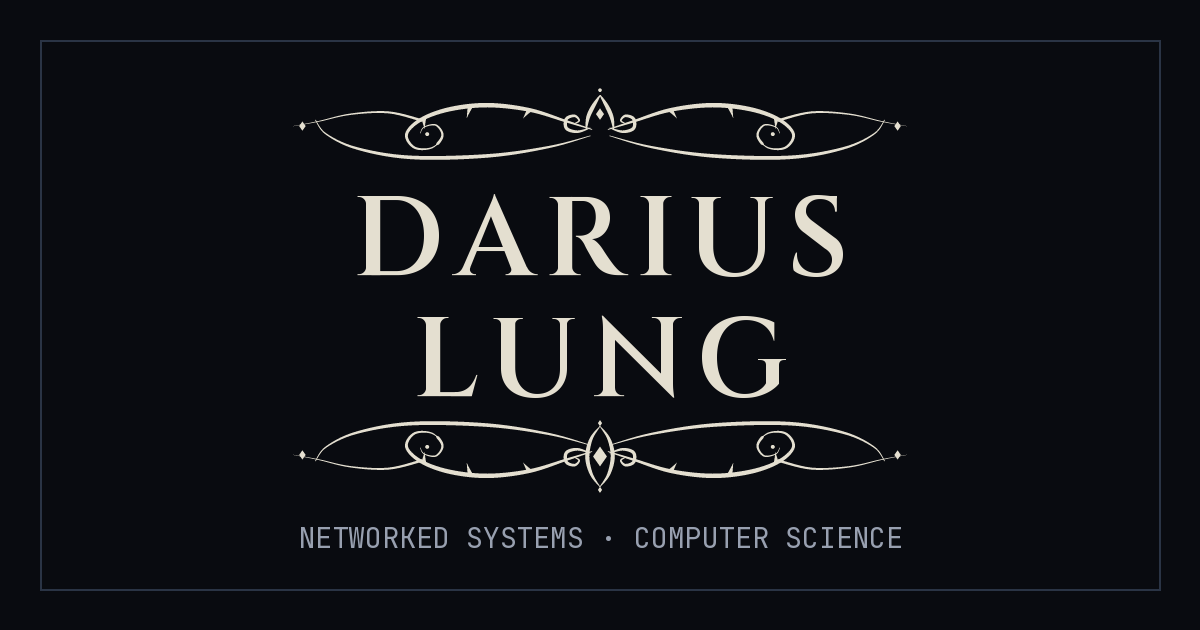
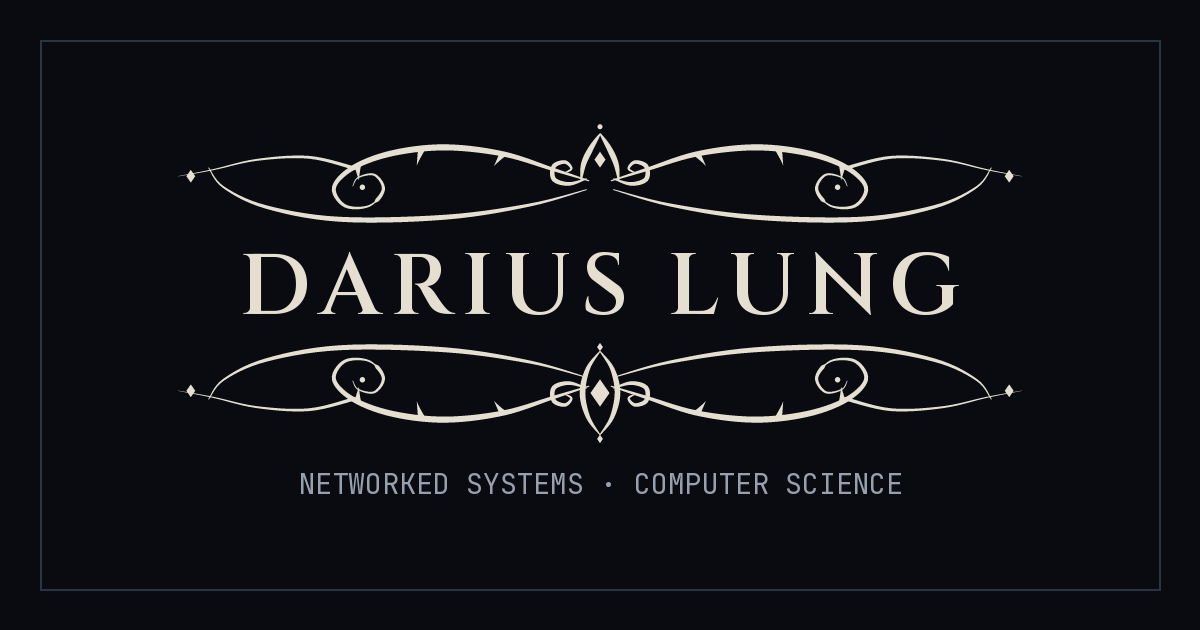
style: one-line name on wide screens and nav links in place of the brand
Keep the stacked name on phones and switch to one line from 640px up inside a wider filigree. Replace the header brand with the Home/Tools/CV links in Cinzel uppercase (toggle stays on the right), update the design plan, and redraw the share image with a one-line name under a wide filigree. Rebuild styles.css.

diff --git a/_includes/navbar.html b/_includes/navbar.html
@@ -1,16 +1,15 @@
 {% assign cv_file = site.static_files | where: "path", "/assets/cv.pdf" %}
 <nav class="border-b border-rule bg-paper" aria-label="Main">
     <div class="max-w-4xl mx-auto px-6 py-3 flex justify-between items-center gap-3">
-        <a class="font-display text-base font-semibold uppercase tracking-widest hover:text-signal-text" href="/">Darius Lung</a>
-
-        <div class="flex items-center gap-4 sm:gap-6 text-sm">
+        <div class="flex items-center gap-5 sm:gap-7 font-display text-sm font-semibold uppercase tracking-widest">
             <a href="/" class="py-1 border-b-2 hover:text-signal-text {% if page.url == '/' %}border-signal{% else %}border-transparent{% endif %}" {% if page.url == '/' %}aria-current="page"{% endif %}>Home</a>
             <a href="/tools" class="py-1 border-b-2 hover:text-signal-text {% if page.url contains '/tools' %}border-signal{% else %}border-transparent{% endif %}" {% if page.url contains '/tools' %}aria-current="page"{% endif %}>Tools</a>
             {% if cv_file.size > 0 %}
             <a href="/assets/cv.pdf" class="py-1 border-b-2 border-transparent hover:text-signal-text">CV</a>
             {% endif %}
+        </div>
 
-            <button id="theme-toggle" type="button" class="btn !p-2" aria-label="Toggle dark mode">
+        <button id="theme-toggle" type="button" class="btn !p-2" aria-label="Toggle dark mode">
                 <svg id="icon-sun" class="hidden w-5 h-5" viewBox="0 0 24 24" fill="currentColor" aria-hidden="true">
                   <path d="M12 2.25a.75.75 0 01.75.75v2.25a.75.75 0 01-1.5 0V3a.75.75 0 01.75-.75zM7.5 12a4.5 4.5 0 119 0 4.5 4.5 0 01-9 0zM18.894 6.166a.75.75 0 00-1.06-1.06l-1.591 1.59a.75.75 0 101.06 1.061l1.591-1.59zM21.75 12a.75.75 0 01-.75.75h-2.25a.75.75 0 010-1.5H21a.75.75 0 01.75.75zM17.834 18.894a.75.75 0 001.06-1.06l-1.59-1.591a.75.75 0 10-1.061 1.06l1.59 1.591zM12 18a.75.75 0 01.75.75V21a.75.75 0 01-1.5 0v-2.25A.75.75 0 0112 18zM7.758 17.303a.75.75 0 00-1.061-1.06l-1.591 1.59a.75.75 0 001.06 1.061l1.591-1.59zM6 12a.75.75 0 01-.75.75H3a.75.75 0 010-1.5h2.25A.75.75 0 016 12zM6.697 7.757a.75.75 0 001.06-1.06l-1.59-1.591a.75.75 0 00-1.061 1.06l1.59 1.591z" />
                 </svg>
@@ -18,7 +17,6 @@
                     <path d="M17.293 13.293A8 8 0 016.707 2.707a8.001 8.001 0 1010.586 10.586z"></path>
                 </svg>
             </button>
-        </div>
     </div>
 </nav>
 

diff --git a/index.html b/index.html
@@ -6,9 +6,9 @@ title: Home
 
 <!-- Title card: the name between two filigrees, centred -->
 <section class="flex flex-col items-center text-center mb-14">
-    <div class="w-full max-w-[26rem]">
+    <div class="w-full max-w-[26rem] sm:max-w-[36rem]">
         <div class="filigree" aria-hidden="true"></div>
-        <h1 class="mt-3 text-5xl sm:text-6xl font-semibold uppercase leading-tight tracking-wider">Darius <span class="block">Lung</span></h1>
+        <h1 class="mt-3 text-5xl sm:text-6xl font-semibold uppercase leading-tight tracking-wider">Darius <span class="block sm:inline">Lung</span></h1>
         <p class="label mt-4 sm:text-sm">Networked systems &middot; Computer science</p>
         <div class="filigree-bottom mt-4" aria-hidden="true"></div>
         <div class="flex flex-wrap justify-center gap-2 mt-6">

diff --git a/assets/css/styles.css b/assets/css/styles.css
@@ -1062,6 +1062,9 @@ video {
 .gap-4 {
   gap: 1rem;
 }
+.gap-5 {
+  gap: 1.25rem;
+}
 .gap-x-3 {
   -moz-column-gap: 0.75rem;
        column-gap: 0.75rem;
@@ -1423,8 +1426,16 @@ video {
     grid-column: span 3 / span 3;
   }
 
+  .sm\:inline {
+    display: inline;
+  }
+
   .sm\:w-24 {
     width: 6rem;
+  }
+
+  .sm\:max-w-\[36rem\] {
+    max-width: 36rem;
   }
 
   .sm\:grid-cols-\[1fr_1fr_auto\] {
@@ -1443,8 +1454,8 @@ video {
     justify-content: space-between;
   }
 
-  .sm\:gap-6 {
-    gap: 1.5rem;
+  .sm\:gap-7 {
+    gap: 1.75rem;
   }
 
   .sm\:p-5 {

diff --git a/docs/design-plan.md b/docs/design-plan.md
@@ -51,7 +51,7 @@ The favicon is the shard too: `favicon_shard()` (a bold pointed oval round a dia
 ### Typography
 
 - **Three families, self-hosted** as `woff2` in `assets/fonts/`, with `font-display: swap`; Inter and Cinzel are preloaded:
-  - **Cinzel** (variable, OFL): all `h1`–`h3` and the navbar name. Trajan-style capitals, chosen to echo the Hollow Knight logotype. Lowercase renders as small caps, so headings need no `tracking-tight` (it squeezes the capitals); use `tracking-wide`.
+  - **Cinzel** (variable, OFL): all `h1`–`h3` and the navbar links. Trajan-style capitals, chosen to echo the Hollow Knight logotype. Lowercase renders as small caps, so headings need no `tracking-tight` (it squeezes the capitals); use `tracking-wide`.
   - **Inter** (variable): body text and controls.
   - **JetBrains Mono** (400 only): labels, weights, complexity badges, small metadata.
 - Drop Space Grotesk. (Cinzel is the third family; the Hollow Knight direction justified the extra ~26 KB.)
@@ -110,7 +110,7 @@ Ship this, live with it for a few days, then start phase 2.
 - Minimal footer: name, year, GitHub source link. Nothing else.
 
 ### `_includes/navbar.html`
-- Plain name on the left, links on the right (`Home`, `Tools`, `CV`), with the active page marked by an underline or accent rule.
+- No brand: the links (`Home`, `Tools`, `CV`) sit on the left in Cinzel uppercase, the theme toggle on the right. The name lives in the home title card, the page title and the footer. The active page is marked by an accent underline.
 - The theme toggle stays an icon button with an `aria-label`. Delete the `setTimeout`/`theme-transitioning` lines in the click handler.
 - Mobile menu: add `aria-expanded` and `aria-controls` to the toggle button.
 
